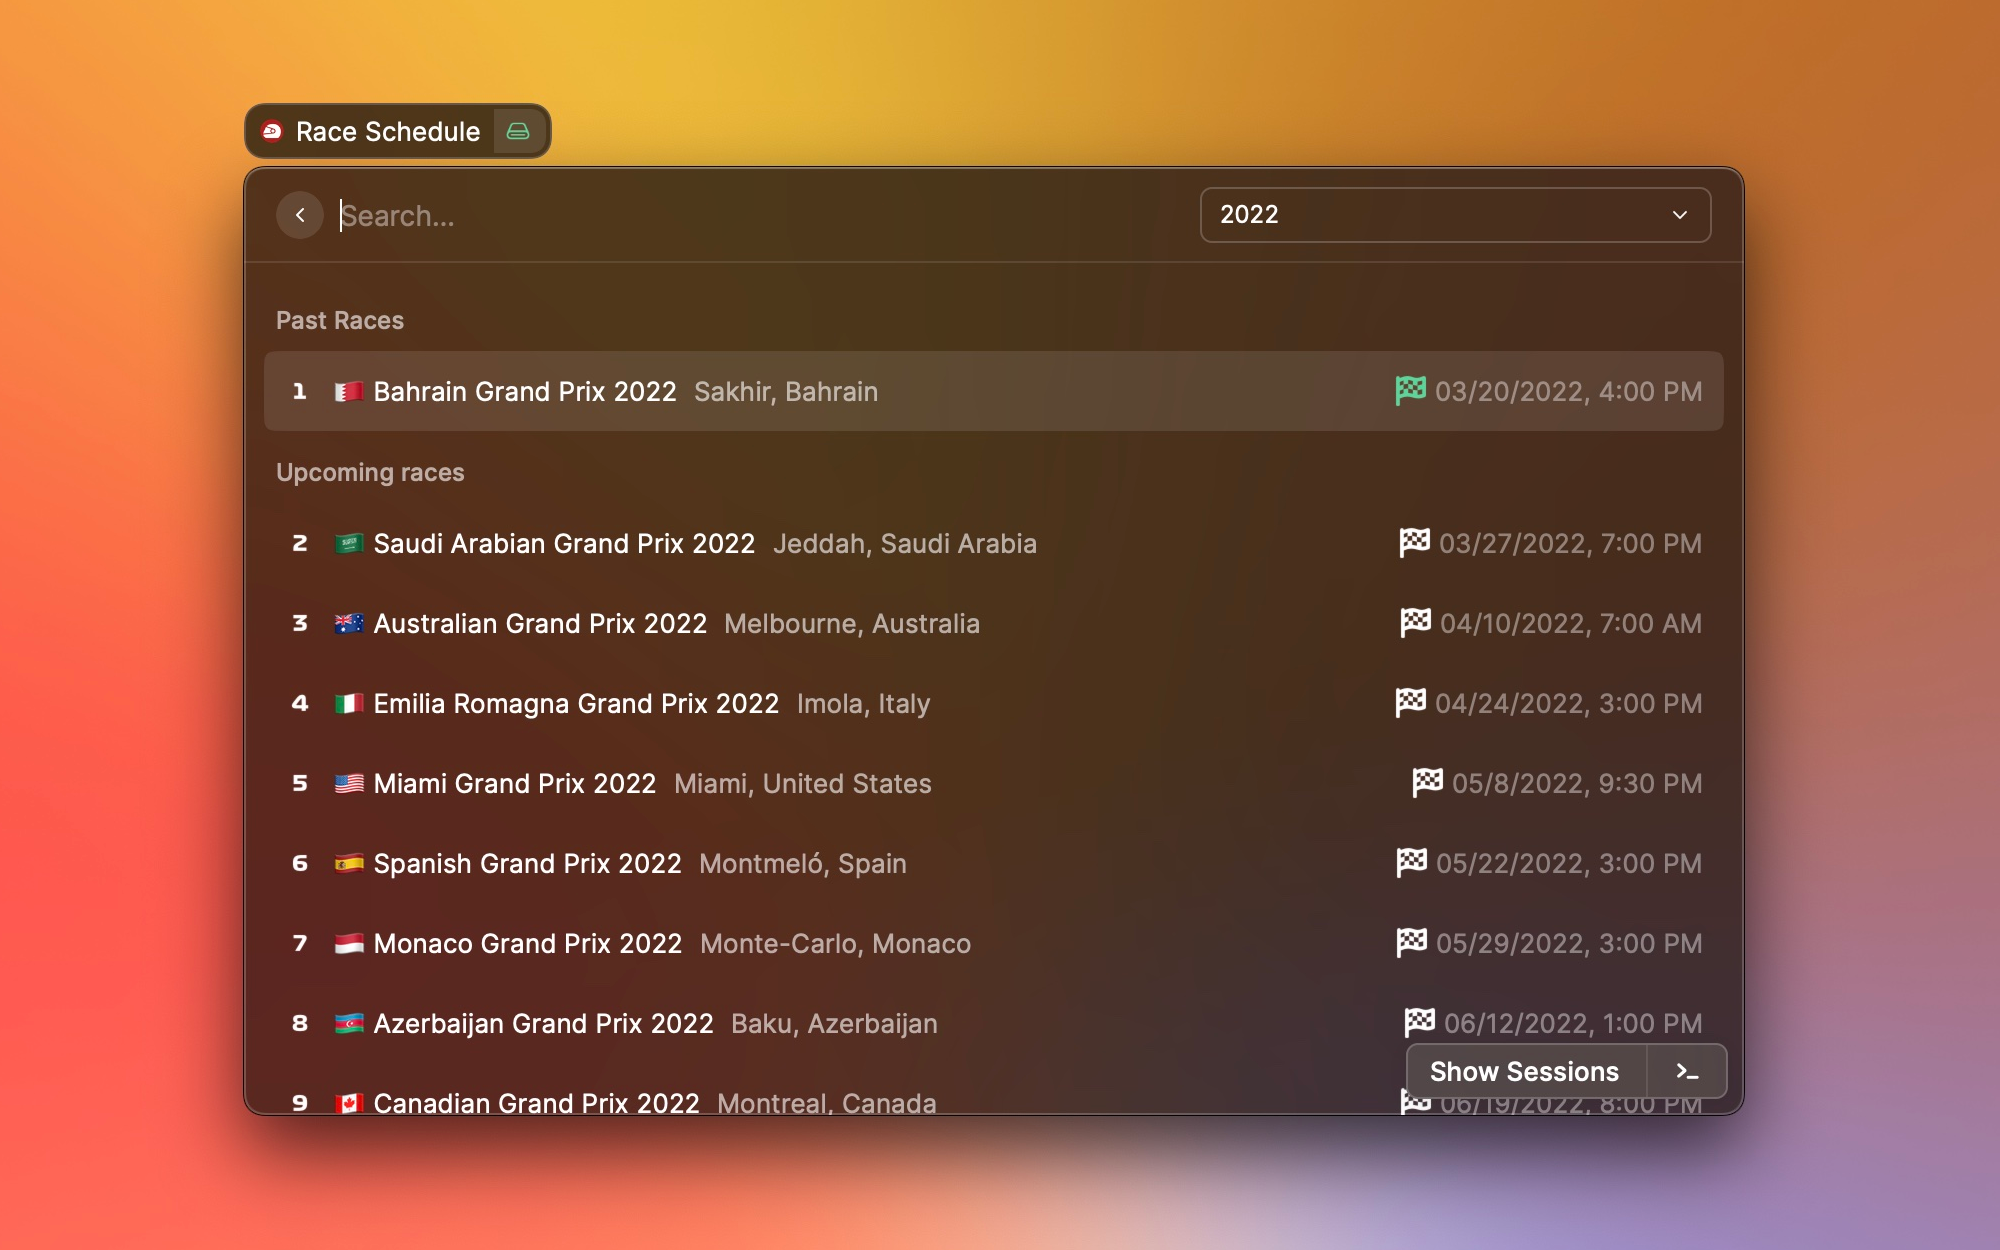
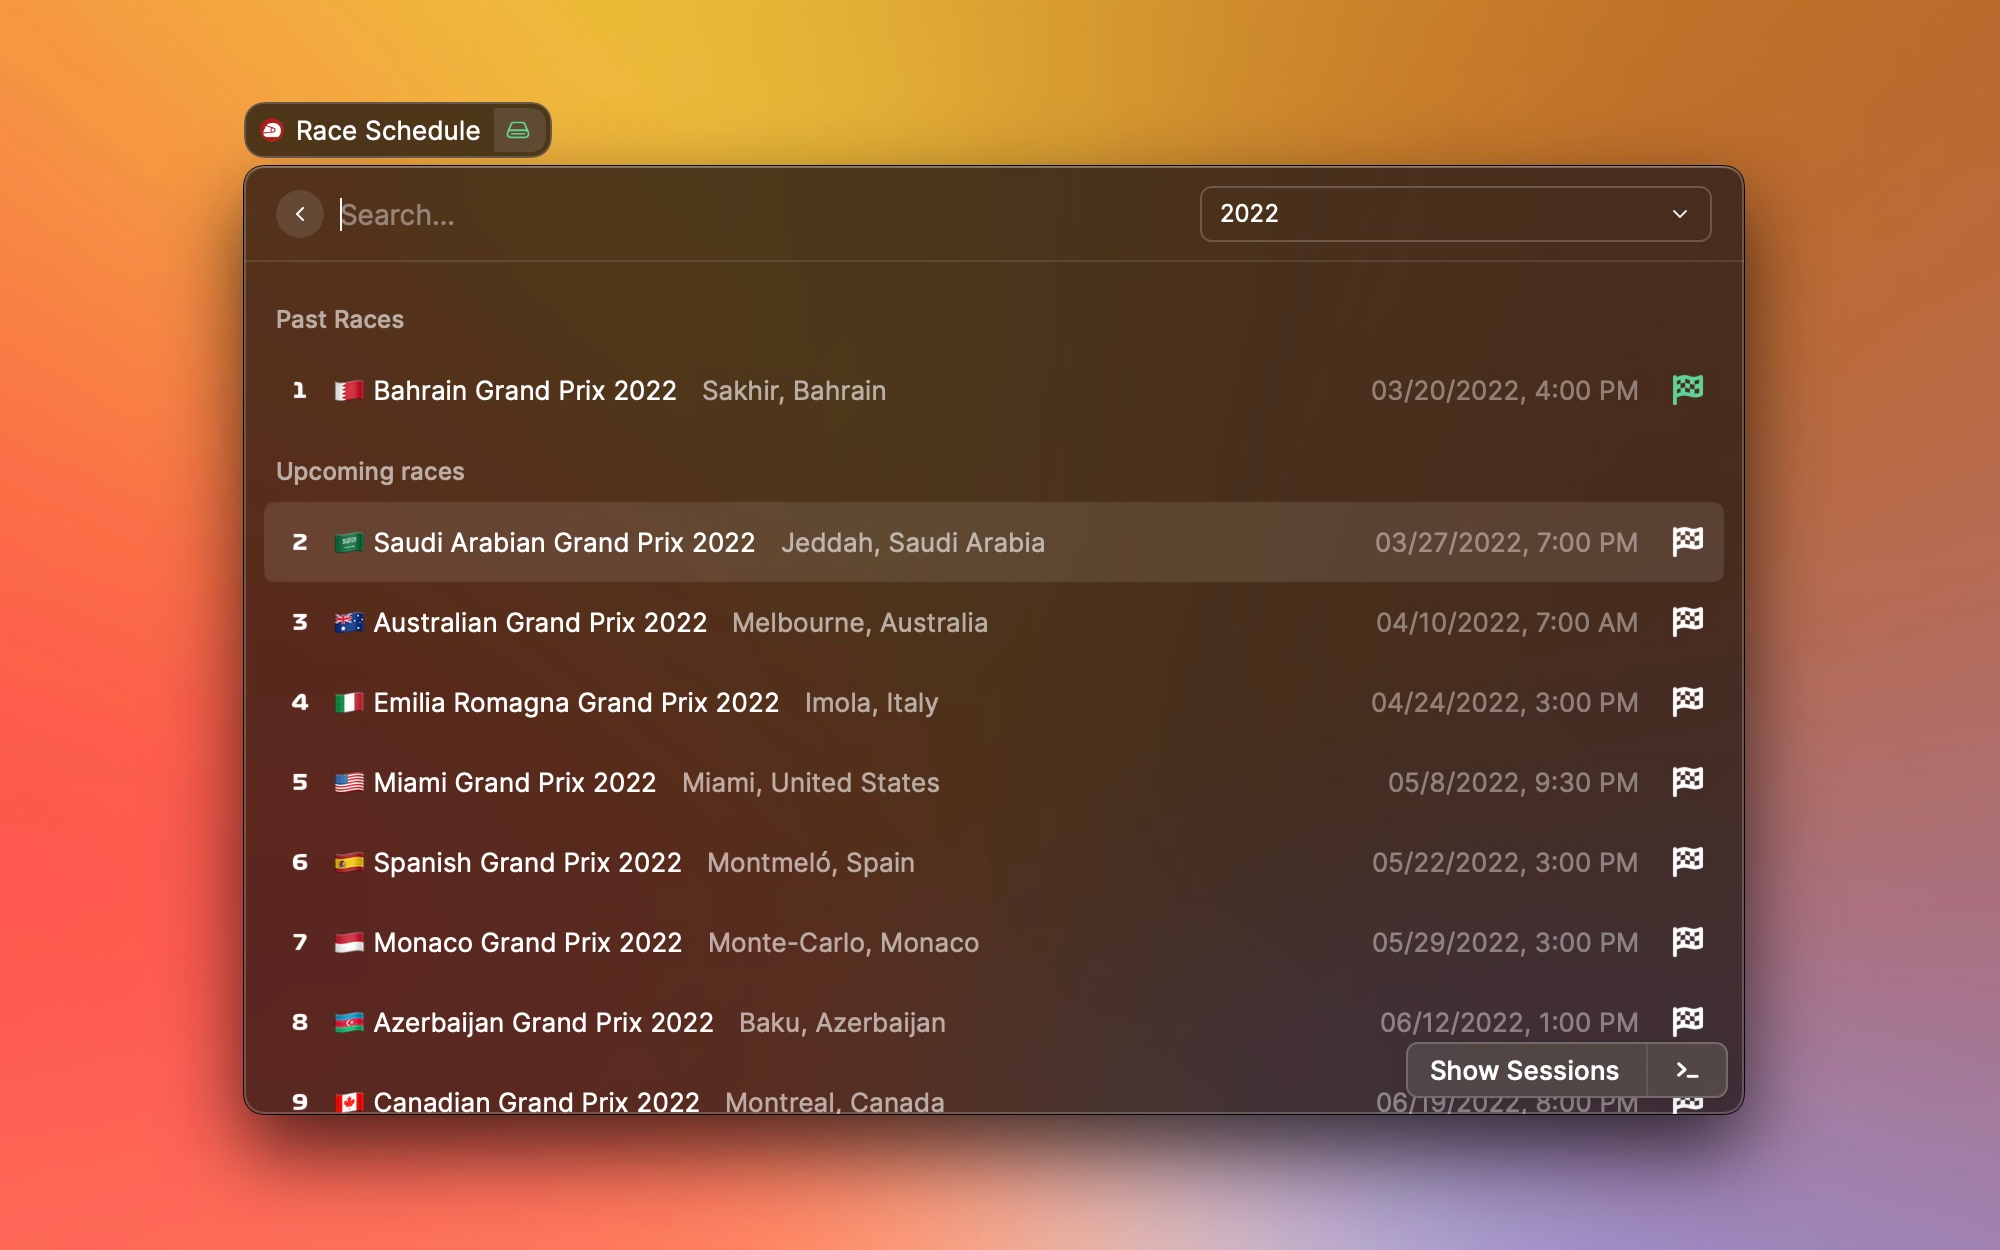
F1: Update to latest API version, rearrange accessories. (#1217)

diff --git a/extensions/f1-standings/src/views/RaceList.tsx b/extensions/f1-standings/src/views/RaceList.tsx
@@ -54,16 +54,19 @@ function RaceList() {
         <List.Section title="Past Races">
           {Object.values(pastRaces).map((race) => {
             const raceDates = getRaceDates(race);
+            const accessories = [];
+            if (!isShowingDetail && race.date && race.time) {
+              accessories.push({ text: formatDate(new Date(race.date + "T" + race.time)) });
+            }
+            accessories.push({ icon: { source: "flag-checkered.png", tintColor: Color.Green } });
 
             return (
               <List.Item
                 key={race.round}
                 id={race.round}
                 icon={{ source: `${race.round}.png`, tintColor: Color.PrimaryText }}
-                accessoryIcon={{ source: "flag-checkered.png", tintColor: Color.Green }}
                 title={`${getFlag(race.Circuit.Location.country)} ${race.raceName} ${race.season}`}
                 subtitle={`${race.Circuit.Location.locality}, ${race.Circuit.Location.country}`}
-                accessoryTitle={isShowingDetail ? undefined : formatDate(new Date(race.date + "T" + race.time))}
                 detail={raceDates.length ? <RaceSessionDetails raceDates={raceDates} /> : undefined}
                 actions={
                   <ActionPanel title={race.raceName}>
@@ -81,6 +84,7 @@ function RaceList() {
                     <Action.OpenInBrowser url={race.url || race.Circuit.url} />
                   </ActionPanel>
                 }
+                accessories={accessories}
               />
             );
           })}
@@ -90,15 +94,18 @@ function RaceList() {
         <List.Section title="Upcoming races">
           {Object.values(upcomingRaces).map((race) => {
             const raceDates = getRaceDates(race);
+            const accessories = [];
+            if (!isShowingDetail && race.date && race.time) {
+              accessories.push({ text: formatDate(new Date(`${race.date}T${race.time}`)) });
+            }
+            accessories.push({ icon: { source: "flag-checkered.png", tintColor: Color.PrimaryText } });
             return (
               <List.Item
                 key={race.round}
                 id={race.round}
                 icon={{ source: `${race.round}.png`, tintColor: Color.PrimaryText }}
-                accessoryIcon={{ source: "flag-checkered.png", tintColor: Color.PrimaryText }}
                 title={`${getFlag(race.Circuit.Location.country)} ${race.raceName} ${race.season}`}
                 subtitle={`${race.Circuit.Location.locality}, ${race.Circuit.Location.country}`}
-                accessoryTitle={isShowingDetail ? undefined : formatDate(new Date(`${race.date}T${race.time}`))}
                 detail={raceDates.length ? <RaceSessionDetails raceDates={raceDates} /> : undefined}
                 actions={
                   <ActionPanel title={race.raceName}>
@@ -111,6 +118,7 @@ function RaceList() {
                     <Action.OpenInBrowser url={race.url || race.Circuit.url} />
                   </ActionPanel>
                 }
+                accessories={accessories}
               />
             );
           })}

diff --git a/extensions/f1-standings/src/views/ConstructorStandingsList.tsx b/extensions/f1-standings/src/views/ConstructorStandingsList.tsx
@@ -26,12 +26,12 @@ function ConstructorList() {
               key={standing.Constructor.constructorId}
               icon={{ source: `${standing.position}.png`, tintColor: Color.PrimaryText }}
               title={`${getFlag(standing.Constructor?.nationality)} ${standing.Constructor.name}`}
-              accessoryTitle={String(standing.points)}
               actions={
                 <ActionPanel title={standing.Constructor.name}>
                   <Action.OpenInBrowser url={standing.Constructor.url} />
                 </ActionPanel>
               }
+              accessories={[{ text: String(standing.points) }]}
             />
           ))}
         </List.Section>

diff --git a/extensions/f1-standings/src/views/RaceResultList.tsx b/extensions/f1-standings/src/views/RaceResultList.tsx
@@ -23,12 +23,12 @@ function RaceResultList({ season, round }: RaceResultViewProps) {
               }}
               title={getFlag(item.Driver.nationality) + " " + item.Driver.givenName + " " + item.Driver.familyName}
               subtitle={item.Constructor.name}
-              accessoryTitle={String(item.points)}
               actions={
                 <ActionPanel title={item.Driver.givenName + " " + item.Driver.familyName}>
                   <Action.OpenInBrowser url={item.Driver.url} />
                 </ActionPanel>
               }
+              accessories={[{ text: String(item.points) }]}
             />
           ))}
         </List.Section>

diff --git a/extensions/f1-standings/src/views/DriverStandingsList.tsx b/extensions/f1-standings/src/views/DriverStandingsList.tsx
@@ -32,12 +32,12 @@ function DriverList() {
                 standing.Driver.familyName
               }`}
               subtitle={standing.Constructors[standing.Constructors.length - 1]?.name}
-              accessoryTitle={standing.points}
               actions={
                 <ActionPanel title={`${standing.Driver.givenName} ${standing.Driver.familyName}`}>
                   <Action.OpenInBrowser url={standing.Driver.url} />
                 </ActionPanel>
               }
+              accessories={[{ text: standing.points }]}
             />
           ))}
         </List.Section>
